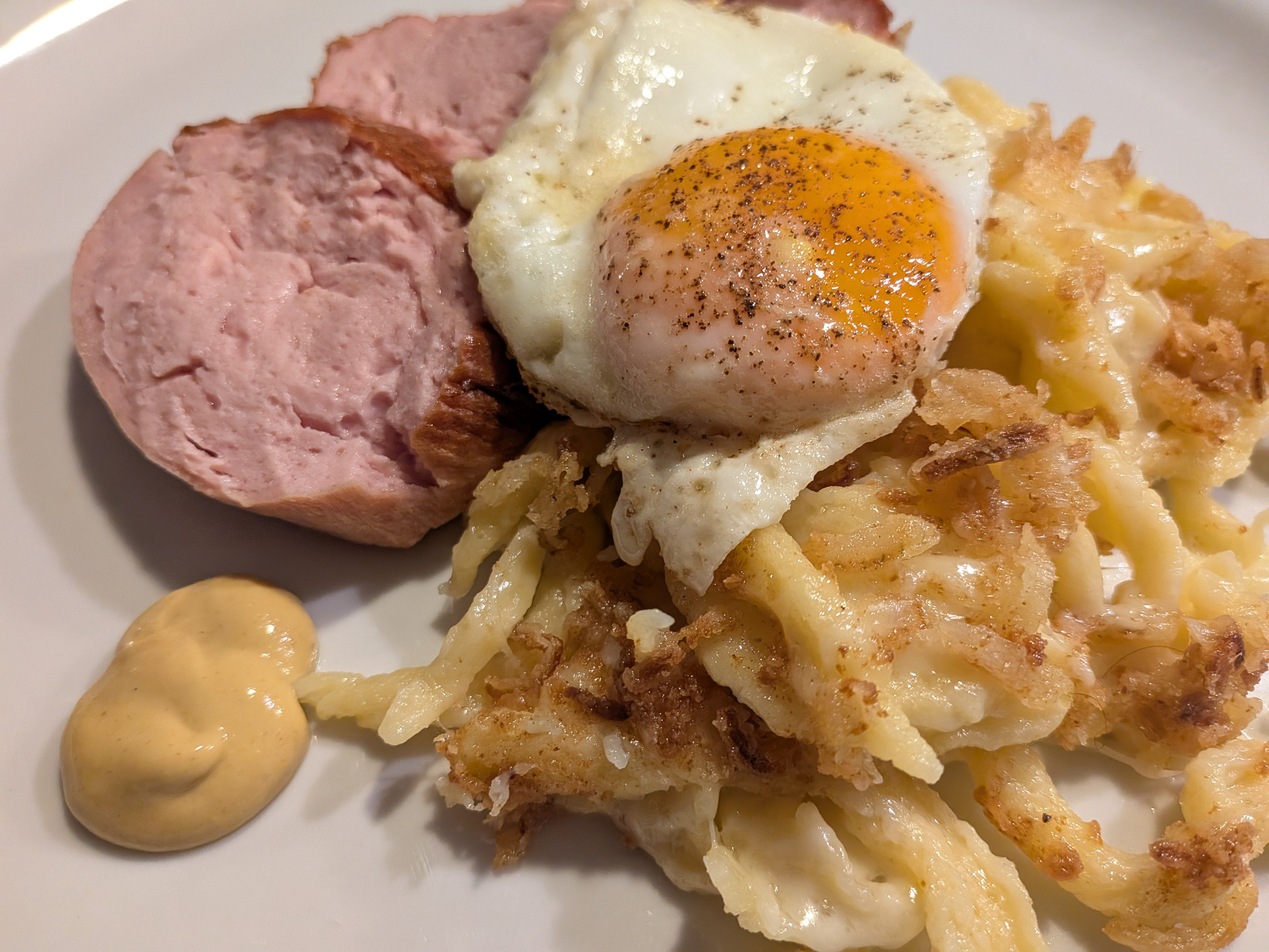
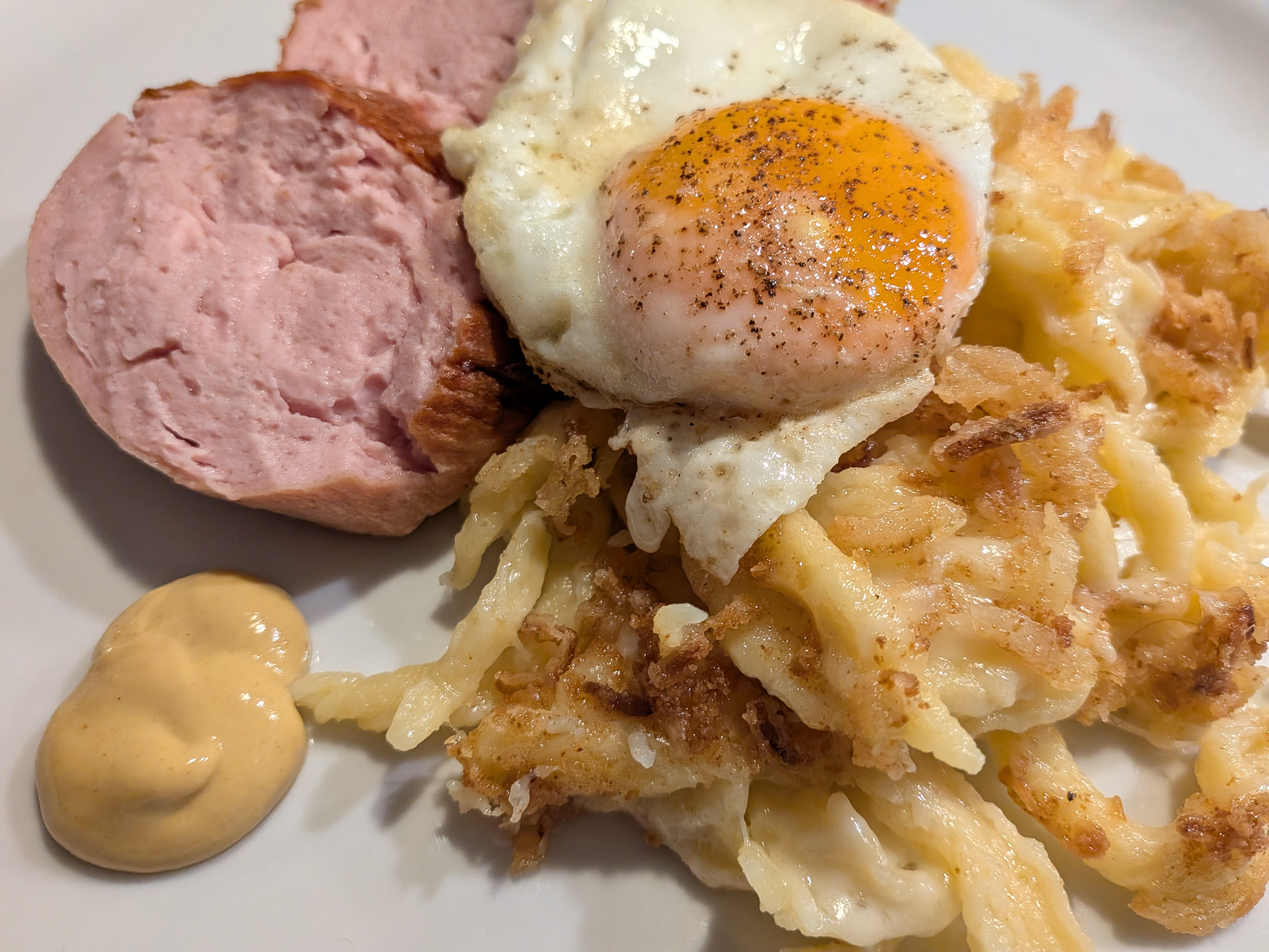
update recipes

diff --git a/content/recipes/maccheroni_alla_calabrese.md b/content/recipes/maccheroni_alla_calabrese.md
@@ -1,7 +1,7 @@
 ---
 layout: recipe
 date: 2026-03-15T16:51:00+01:00
-draft: true
+draft: false
 title: "Maccheroni alla calabrese"
 tags:
 - Italien
@@ -9,23 +9,23 @@ tags:
 
 ingredients:
   - 100 g milder roher Schinken
-  - 1 kg reife Tomaten
-  - 1 Bund glatte Petersilie
-  - ½ Bund Basilikum
-  - 100 g Caciocavallo-Käse zum Reiben (oder Pecorino)
-  - 400 g Makkaroni
-  - 3 EL Schweineschmalz
-  - 2 EL Olivenöl
-  - 1 getrocknete Chilischote
+  - 3-4 Tomaten
+  - Petersilie
+  - Basilikum
+  - Pecorino
+  - Makkaroni oder Pasta Tubetti
+  - Butter
+  - Olivenöl
+  - Chili
   - 1 Zwiebel
   - 2–3 Knoblauchzehen
-  - ½ TL schwarze Pfefferkörner
   - Salz, Pfeffer aus der Mühle
 directions:
-  - Tomaten überbrühen, enthäuten und entkernen. Das Fruchtfleisch zerkleinern. Schinken in Streifen schneiden, 1 Zwiebel und 2–3 Knoblauchzehen hacken.
+  - Tomaten überbrühen, enthäuten und entkernen. Das Fruchtfleisch in wuerfel schneiden. 
+  - Schinken in Streifen schneiden, 1 Zwiebel und 2–3 Knoblauchzehen hacken.
   - 2 EL Olivenöl und 1 EL Schmalz erhitzen. Zwiebel und Chilischote andünsten. Knoblauch und Schinken einrühren, kurz anbraten, dann Tomaten untermischen. Die Sauce etwa 45 Min. einköcheln lassen, dabei öfter umrühren.
-  - In einem Topf 3 l Salzwasser aufkochen. 400 g Makkaroni in Stücke brechen, in etwa 8 Min. bißfest garen.
-  - Caciocavallo reiben, Petersilie fein hacken, ½ Bund Basilikum in Streifen schneiden. Tomatensauce salzen und pfeffern, Chilischote entfernen. ¾ der Petersilie einrühren. ½ TL Pfefferkörner im Mörser zerstoßen.
+  - Die Pasta kochen
+  - Kaese reiben, Petersilie fein hacken, Basilikum in Streifen schneiden. Tomatensauce salzen und pfeffern, Chilischote entfernen. ¾ der Petersilie einrühren. ½ TL Pfefferkörner im Mörser zerstoßen.
   - Makkaroni abtropfen lassen, mit 2 EL Schmalz und dem zerstoßenen Pfeffer mischen. Käse und Tomatensauce untermengen. Mit feingeschnittenen Kräutern bestreuen.
 ---
 

diff --git a/content/recipes/zwiebel_bratwurst.md b/content/recipes/zwiebel_bratwurst.md
@@ -8,28 +8,29 @@ tags:
 
 ingredients:
 - 4 Kalbsbratwürste
-- Zwiebeln (gross)
-- Butter
+- 2 Zwiebeln
+- 1 Karotte
+- 1 dicke Scheibe Knollensellerie (ca. 80 g)
+- 1 Knoblauchzehe
 - 2 Esslöffel Mehl
-- 5 dl. Rotwein 
-- 2 dl. Rindsbouillon
+- 2 Esslöffel Butter
+- 5 dl Rotwein
+- 2 dl Rindsbouillon
 - 1/2 TL Senfpulver
-- 1 Loorbeerblatt
-- ein paar Salbeiblaetter
-- Knoblauch
+- 1 Lorbeerblatt
+- 1 Zweig Rosmarin
+- Einige Salbeiblätter
 - Salz, Pfeffer
+- 1–2 Esslöffel Bratöl zum Braten der Bratwürste
+- Rösti für 4 Personen (ca. 600 g festkochende Kartoffeln, 1 Zwiebel, 1–2 Esslöffel Butterschmalz)
 
 directions:
-- Den Wein mit einem Loorberblatt langsam einkochen lassen
-- Knoblauch schaaelen und pressen, zusammen mit den Rosmarin und Salbei zu den wein geben
-
-
-- Die Zwiebeln schälen und in Ringe schneiden.
-- In einer Bratpfanne den Butter schmelzen und die Zwiebeln darin kurz rösten
-- Das Mehl dazugen und unterühren, mit rösten.
-- Das Senfpulver und das Loorbeerblatt dazegeben.
-- Mit dem Rotwein ablöschen und ein wenig einkochen lassen.
+- Karotte und Sellerie grob schneiden und in Butter anbraten, bis das Gemüse Farbe angenommen hat.
+- Eine Zwiebel in Ringe schneiden und zum Gemüse geben.
+- Eine Knoblauchzehe zerdrücken und hacken, zusammen mit 1 EL Mehl und Senfpulver zum Gemüse geben und anbraten.
+- Den Wein, das Lorbeerblatt, Rosmarin und Salbei dazugeben und einkochen lassen.
 - Die Bouillon dazugeben und bis zur gewünschten Konsistenz köcheln lassen. Mit Salz und Pfeffer abschmecken.
-- Bratwürste nach Belieben einschneiden und in einer Bratpfanne mit dem Bratöl goldbraun braten.
+- Die Bratwürste nach Belieben einschneiden und in einer Bratpfanne mit dem Bratöl goldbraun braten.
 - Zusammen mit der Rösti servieren.
 ---
+
